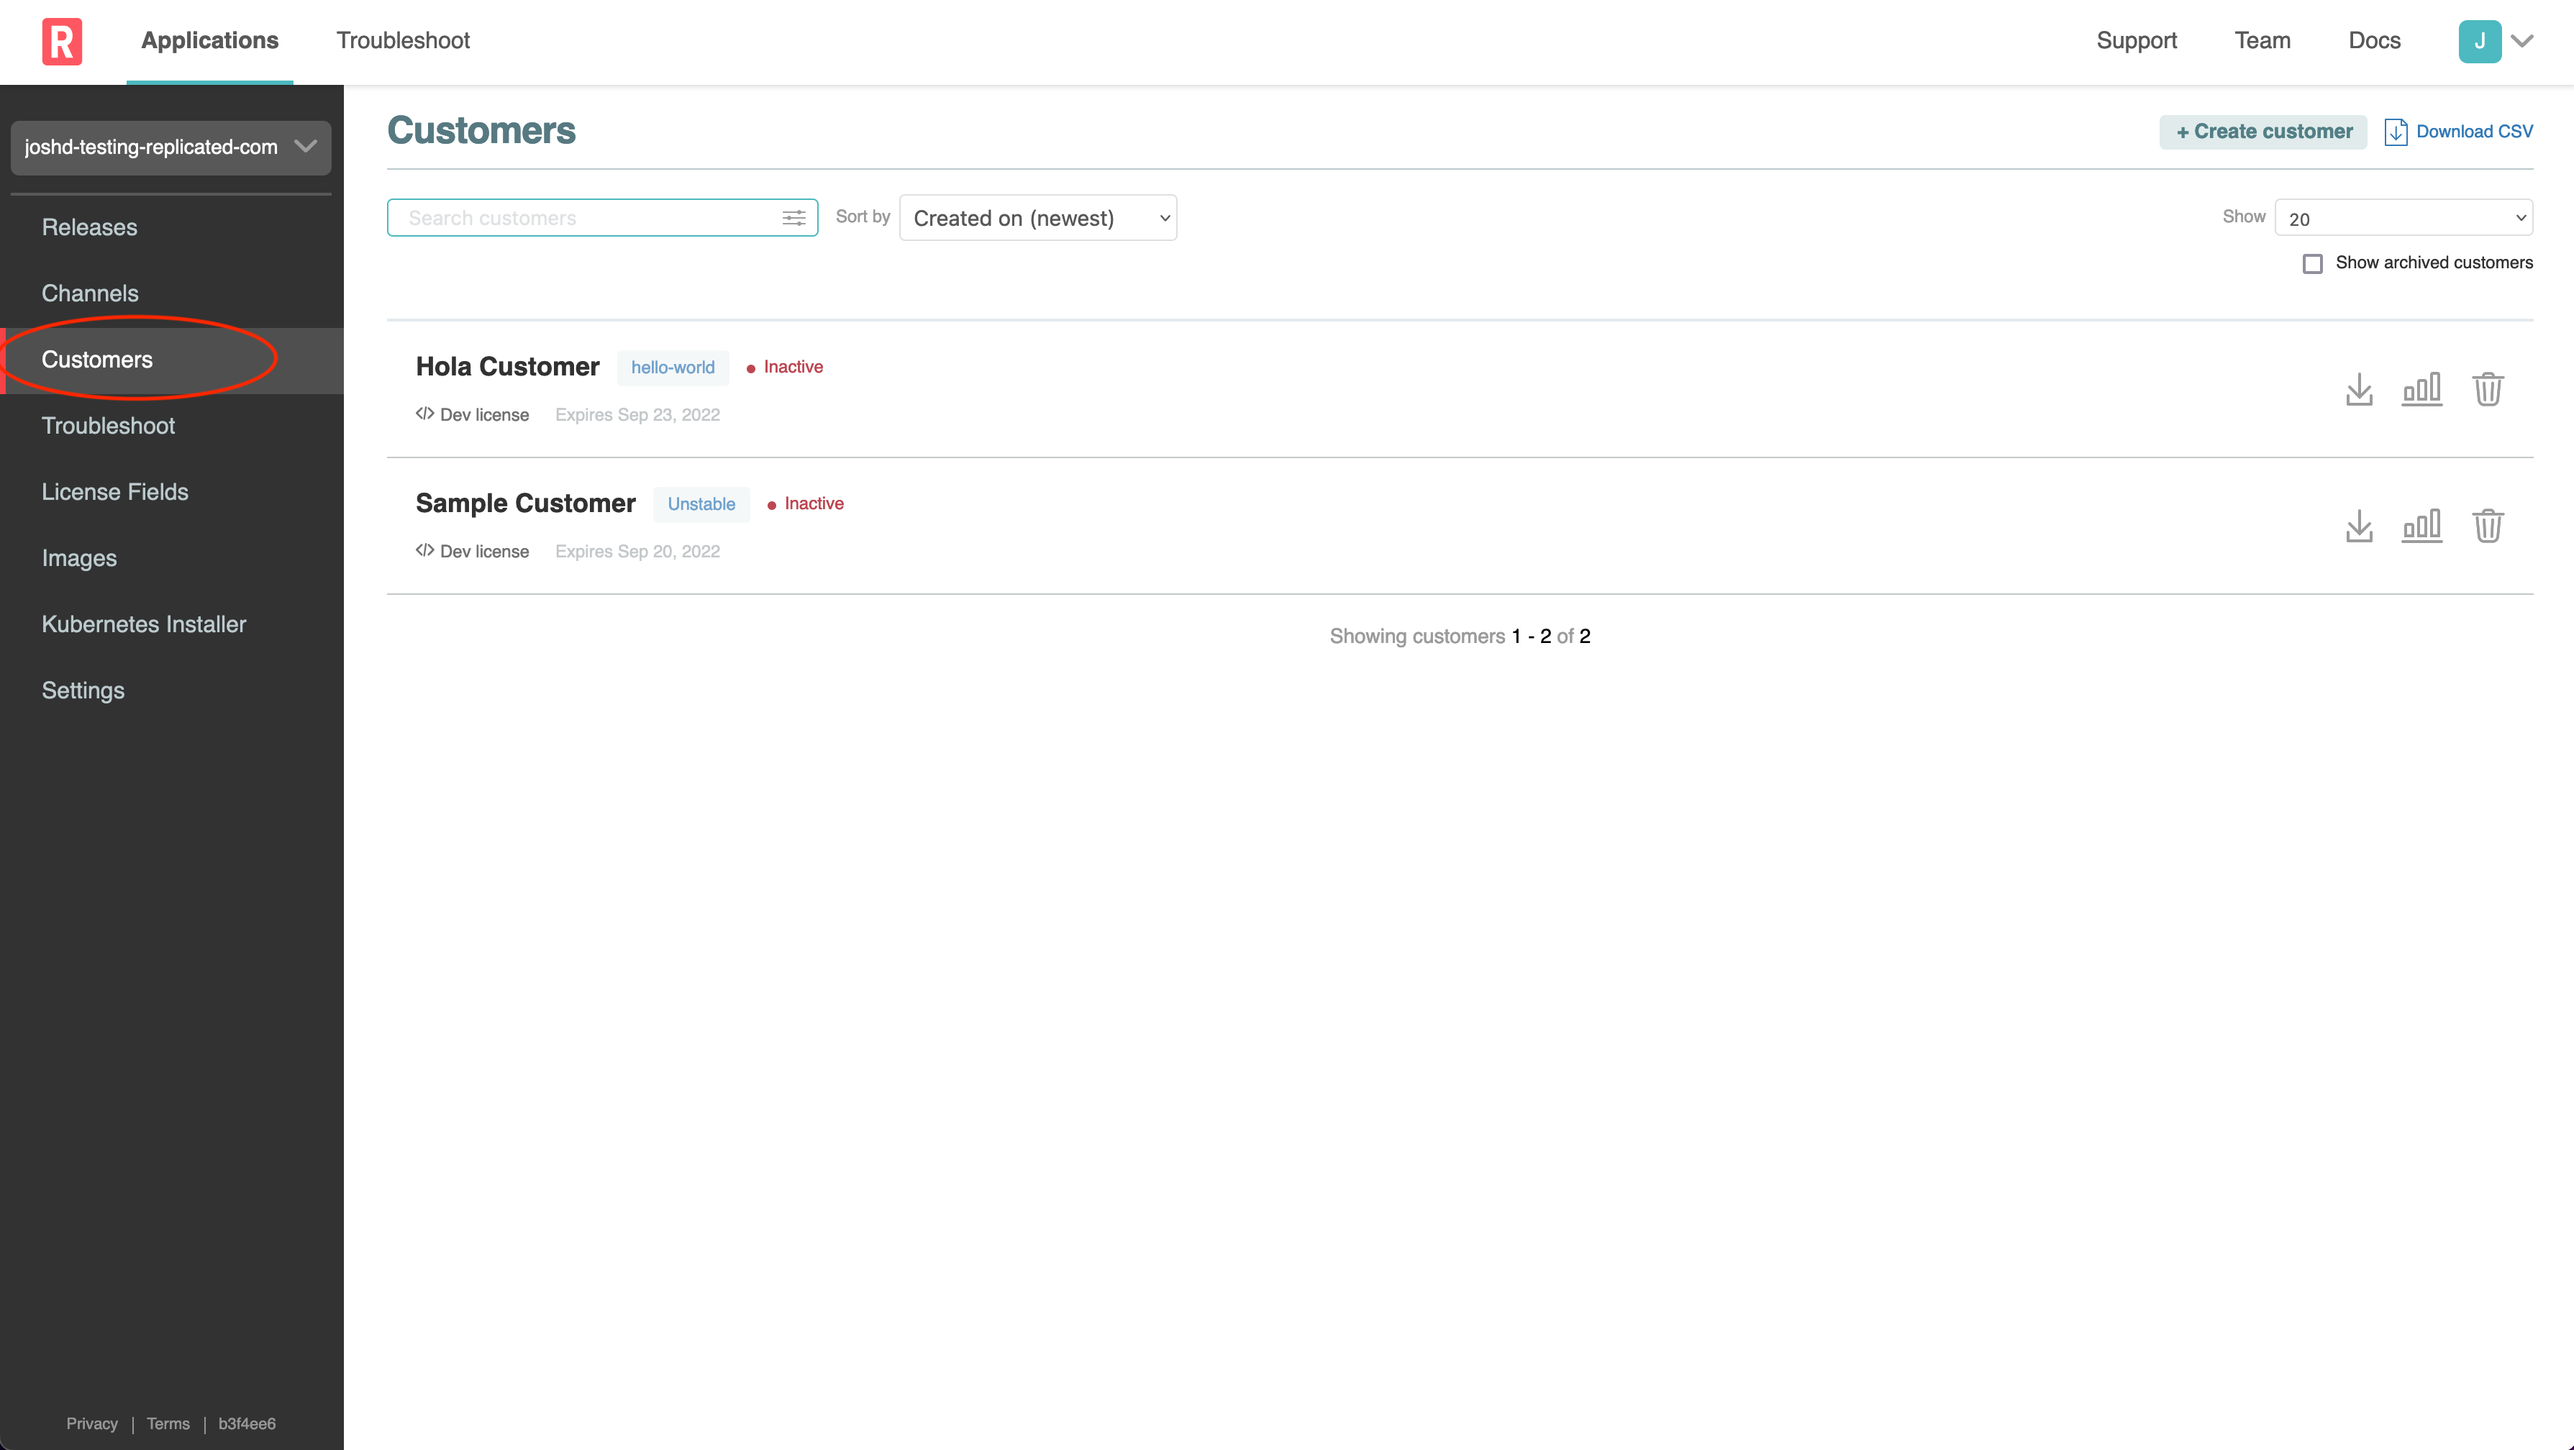
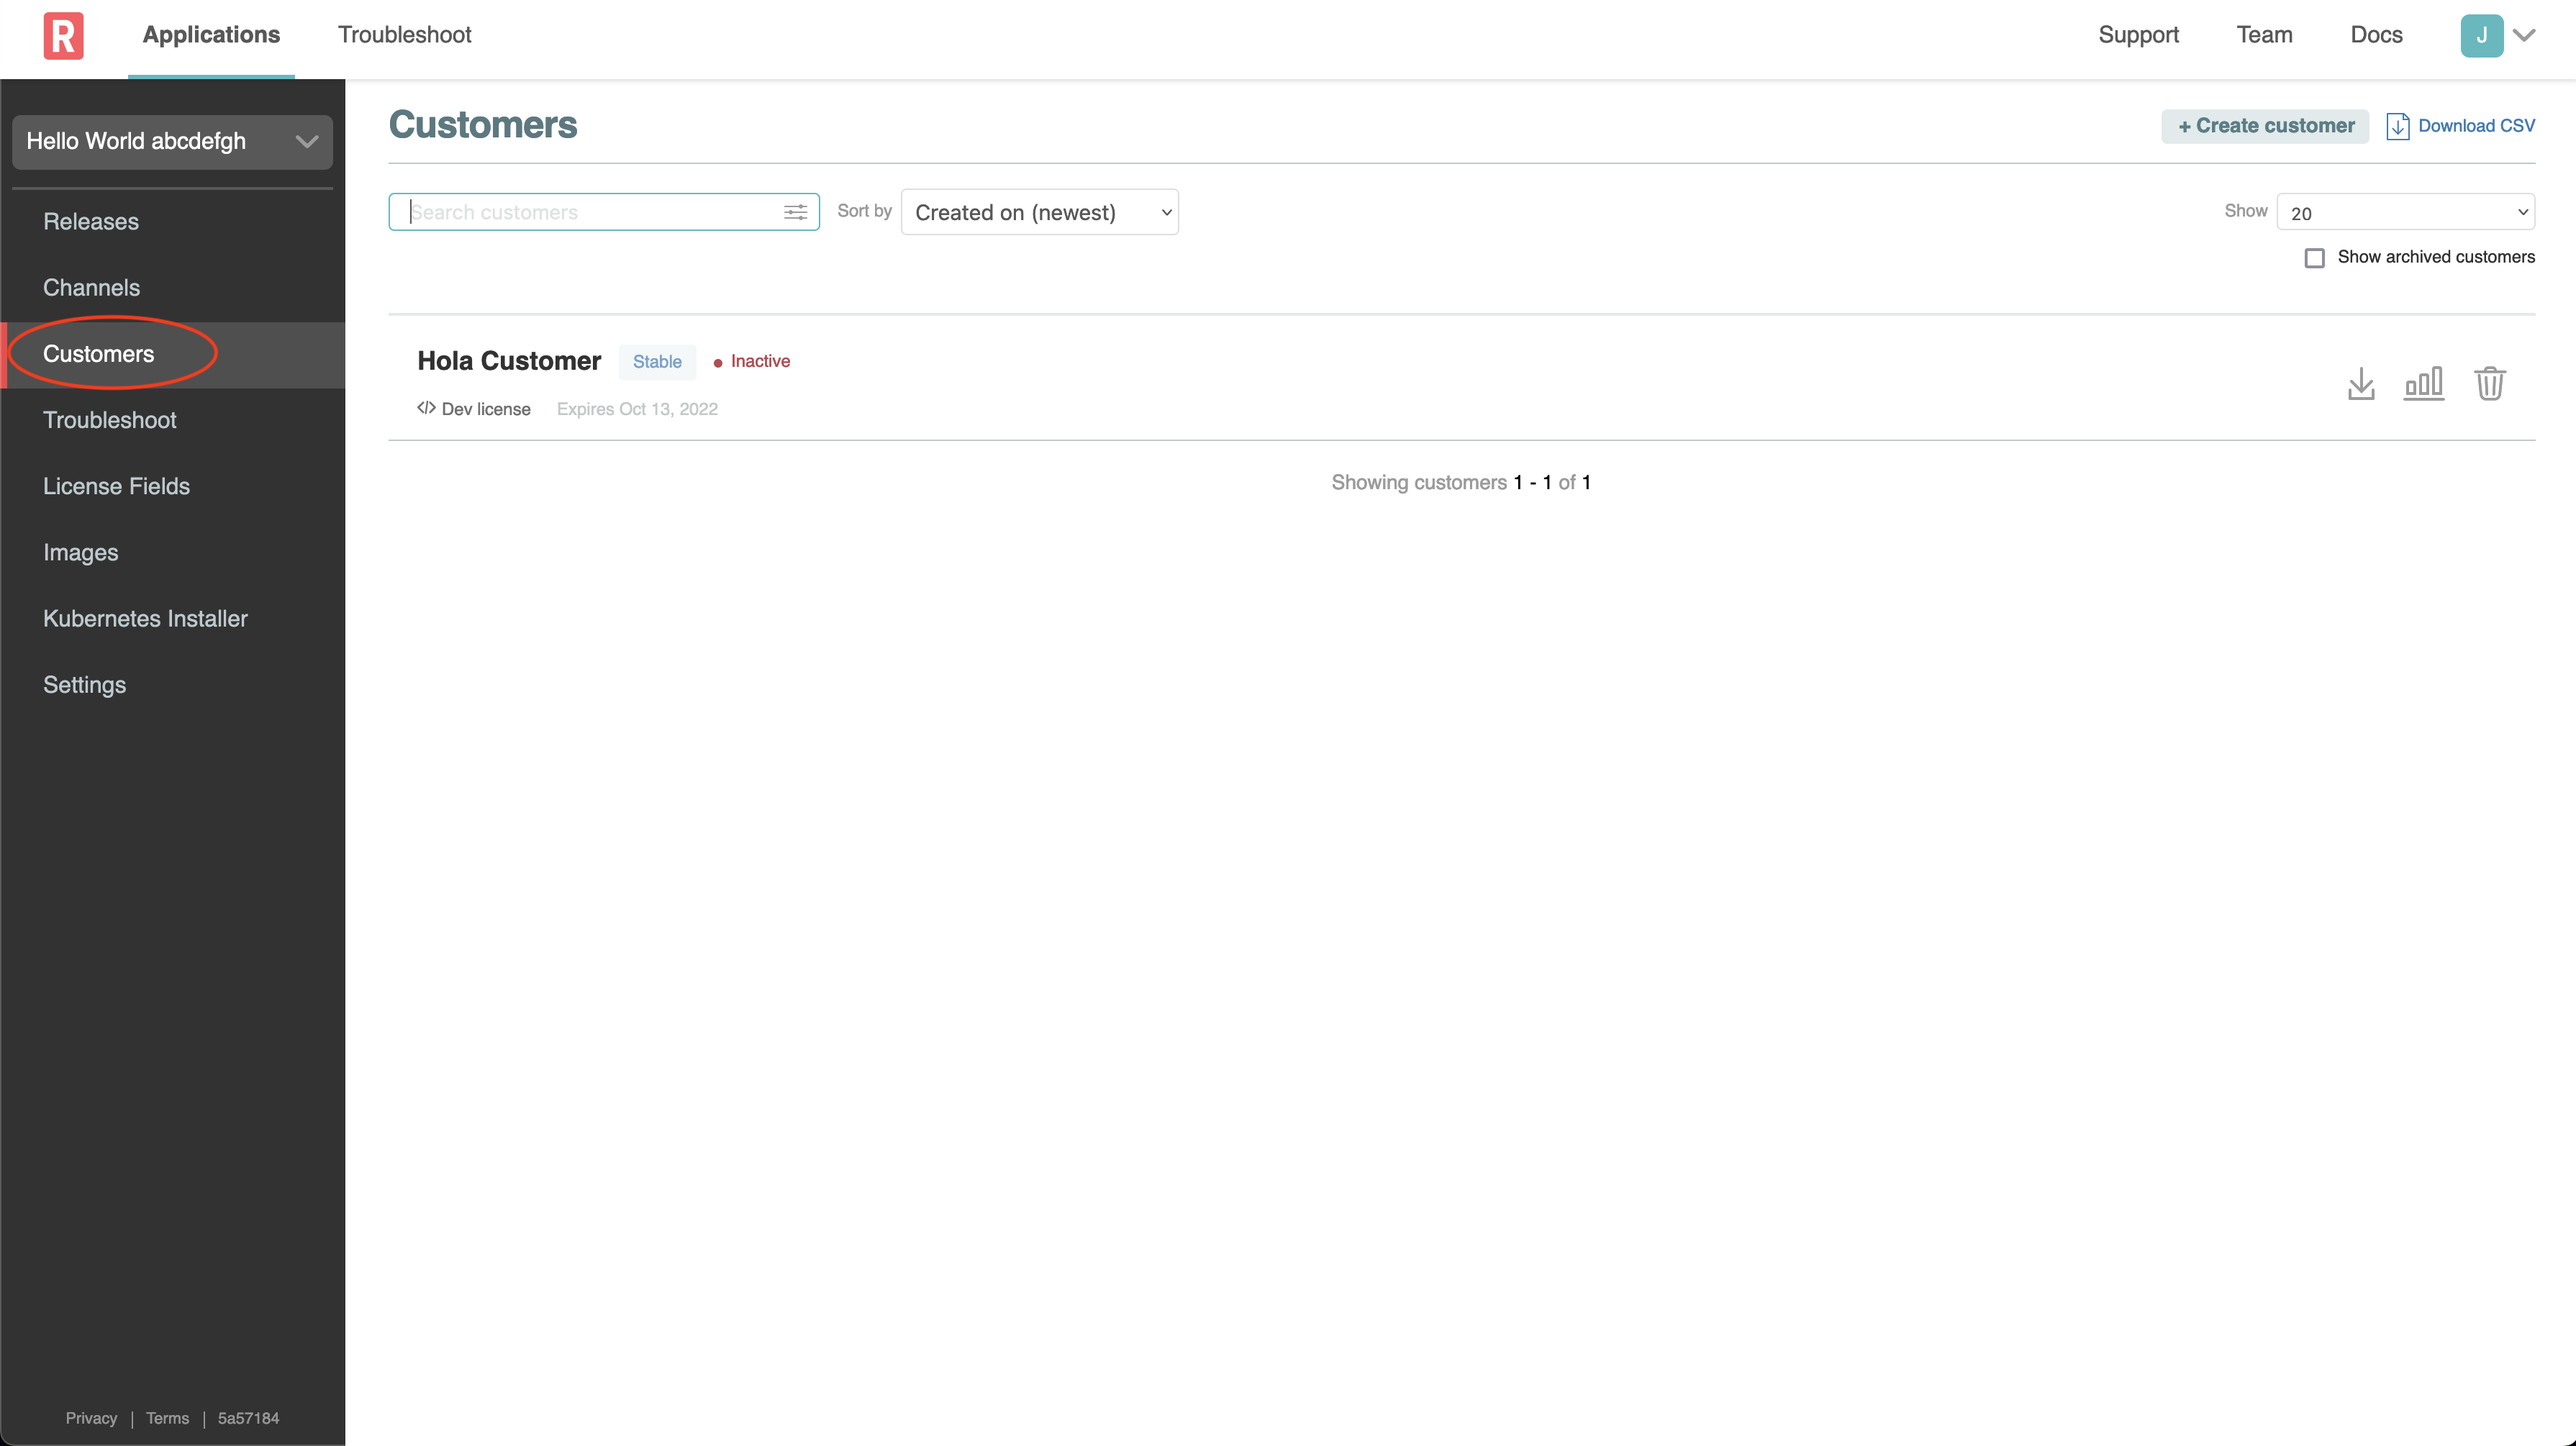
Fixes for hello world track

diff --git a/setup/pkg/fieldlabs/environment_create.go b/setup/pkg/fieldlabs/environment_create.go
@@ -154,7 +154,7 @@ func (e *EnvironmentManager) createVendorTrack(app types.App, trackSpec TrackSpe
 
 	track.Status.Release = release
 
-	err = e.Client.PromoteRelease(app.ID, release.Sequence, trackSpec.Name, trackSpec.Slug, false, channel.ID)
+	err = e.Client.PromoteRelease(app.ID, release.Sequence, "0.1.0", trackSpec.Slug, false, channel.ID)
 	if err != nil {
 		return errors.Wrapf(err, "promote release %d to channel %q", release.Sequence, channel.Slug)
 	}

diff --git a/setup/pkg/fieldlabs/members.go b/setup/pkg/fieldlabs/members.go
@@ -145,7 +145,6 @@ func (e *EnvironmentManager) acceptInvite(invite *InvitedTeams, participantId st
 	if err != nil {
 		return errors.Wrap(err, "marshal accept body")
 	}
-	e.Log.ActionWithSpinner(fmt.Sprintf("Sending bodyr %s", string(acceptBodyBytes)))
 	req, err := http.NewRequest(
 		"POST",
 		fmt.Sprintf("%s/v1/signup/accept-invite", e.Params.IDOrigin),

diff --git a/instruqt/hello-world/02-getting-started/assignment.md b/instruqt/hello-world/02-getting-started/assignment.md
@@ -30,13 +30,13 @@ username: [PARTICIPANT_ID]@replicated-labs.com
 password: [PARTICIPANT_ID]
 ```
 
-Once you have the credential, you can login into the Vendor tab and you should land on the Channels. Channels allow you to manage who has access to which releases of your application.
+Once you have the credentials, you can login into the Vendor tab and you should land on the Channels. Channels allow you to manage who has access to which releases of your application.
 
 ### 2. Getting the install command
 
-Once you're logged in, go to `Channels > HelloWorld` and grab the existing cluster install command.
+Once you're logged in, go to `Channels > Stable` and grab the existing cluster install command.
 
-![HelloWorld channel](../assets/hello-world-channel.png)
+![Stable channel](../assets/stable-channel.png)
 
 We will use this command in the next challenge to kick off the installation process.
 
@@ -49,7 +49,7 @@ To create a customer license, go to `Customers > Hola Customer` by selecting the
 
 You can view the customer details by clicking the row.
 For this Hello World exercise we'll use `Hola Customer`.
-You'll notice that the customer is assigned to the the "HelloWorld" channel on the right hand side, and the Customer Type is set to "Development".
+You'll notice that the customer is assigned to the "Stable" channel on the right hand side, and the Customer Type is set to "Development".
 When you've reviewed these, you can click the "Download License" link in the top right corner.
 
 ![View Customer](../assets/view-customer.png)

diff --git a/instruqt/hello-world/03-kots-install/assignment.md b/instruqt/hello-world/03-kots-install/assignment.md
@@ -25,10 +25,10 @@ timelimit: 600
 In the previous challenge you already copied the installation command for an existing cluster. It looked like:
 ```bash
 curl https://kots.io/install | bash
-kubectl kots install [YOUR-APP-NAME]/helloworld
+kubectl kots install [YOUR-APP-NAME]
 ```
 
-If you don't have the command anymore, you can always go back to the `Vendor` tab and copy it from `Channels > HelloWorld` (the existing cluster install command).
+If you don't have the command anymore, you can always go back to the `Vendor` tab and copy it from `Channels > Stable` (the existing cluster install command).
 
 Run this command in the `Shell` tab. When asked for the `namespace`, you can just press enter and use the one suggested:
 

diff --git a/instruqt/hello-world/04-hello-world-install/assignment.md b/instruqt/hello-world/04-hello-world-install/assignment.md
@@ -64,7 +64,7 @@ Once you clicked on `Continue`, the Application Installer will deploy the Hello 
 
 ![Dashboard](../assets/dashboard.png)
 
-If you want to check the "Hello World", you can do so by clicking on `Open App`
+If you want to check the "Hello World" application, you can do so by clicking on `Open App`
 
 ![Open App](../assets/open-app.png)
 
